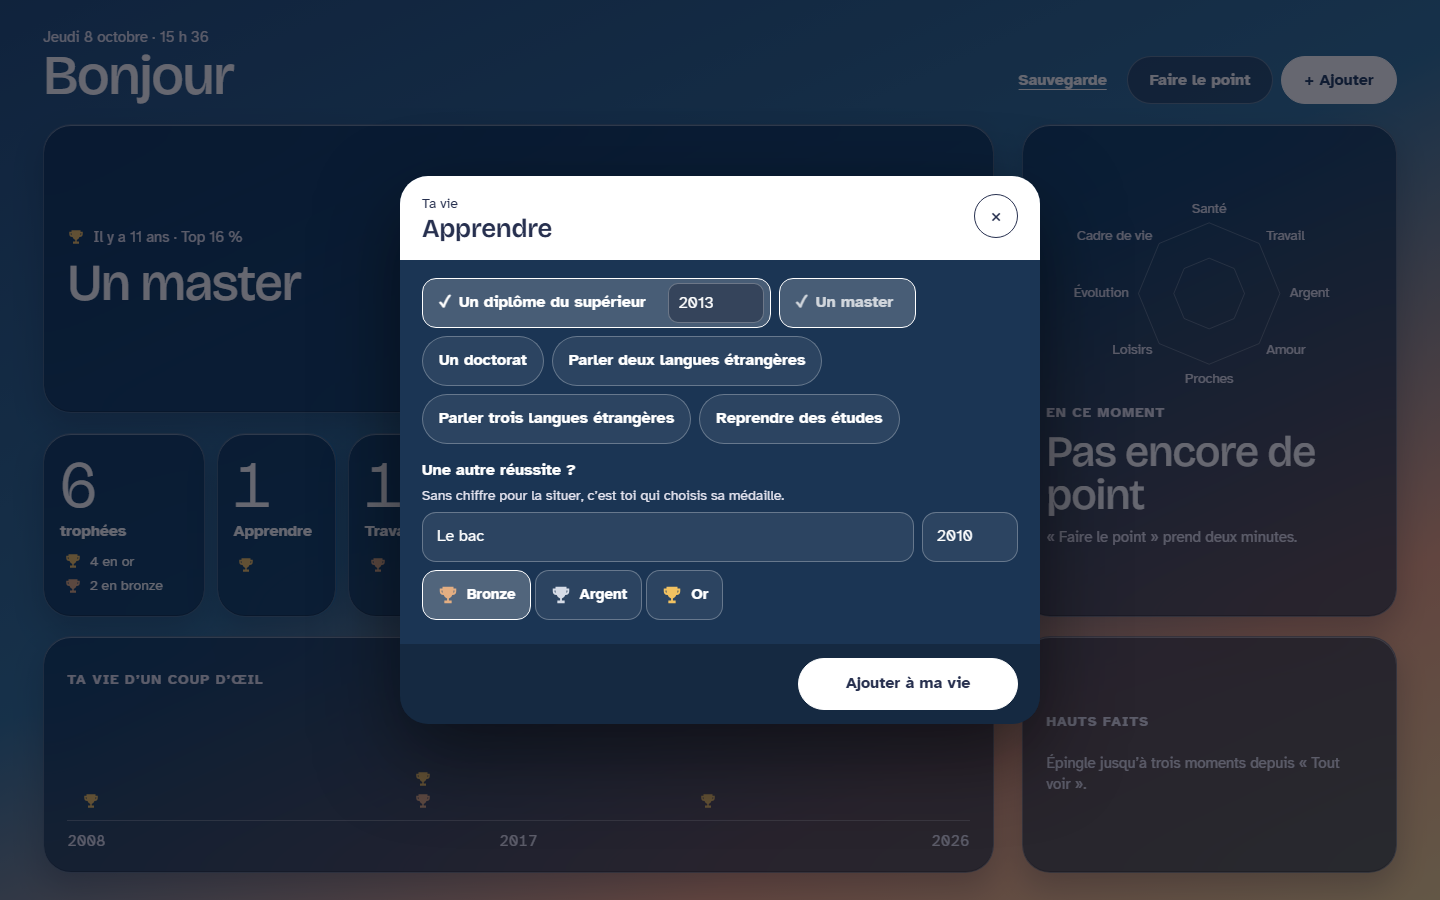
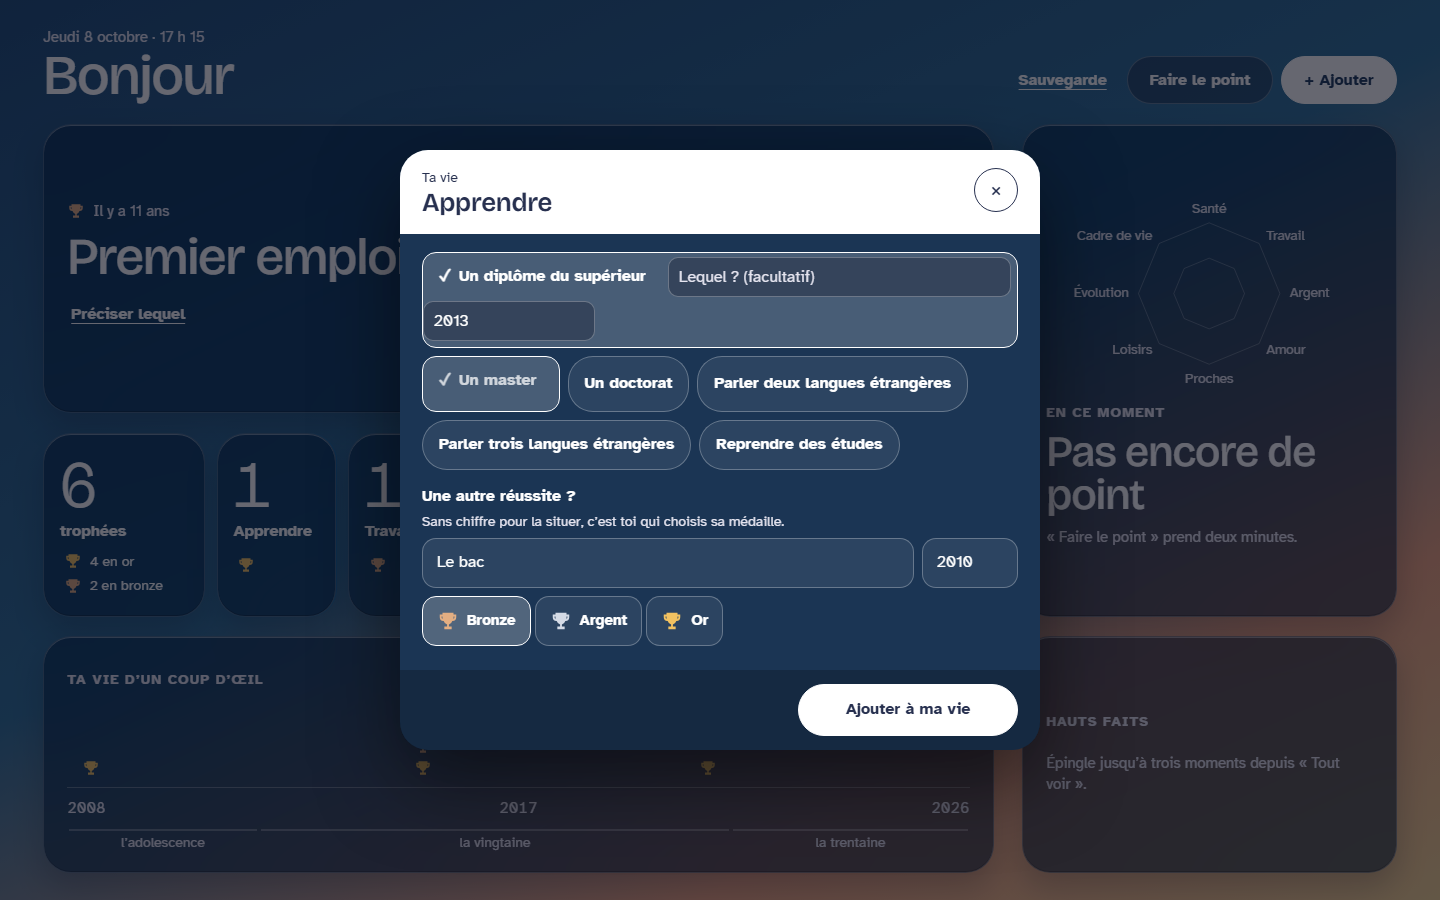
Trophées de vie : les âges sous le ruban, une réussite se précise
- Une bande sous le ruban montre les âges de la vie (adolescence,
  vingtaine, trentaine). C'est aussi là qu'on donne ou qu'on change son
  année de naissance, qui n'était demandée que dans le grand formulaire.
- Une réussite cochée peut se préciser tout de suite (« Lequel ? »).
- Le bandeau propose de préciser un trophée au titre général, et rappelle
  la réussite une fois le trophée précisé.

diff --git a/trophees-de-vie/js/app.js b/trophees-de-vie/js/app.js
@@ -4,10 +4,10 @@
 
 // Le numéro suit celui d'index.html : Pages garde un fichier dix minutes, et sans lui
 // un nouvel app.js pourrait charger une ancienne configuration.
-import { ouvrir, demanderPersistance } from './stockage.js?v=6';
-import { NIVEAUX, CATEGORIES, REUSSITES, CATALOGUE } from './config/vie.js?v=6';
-import { DOMAINES, METEOS, ELANS, MOIS, JOURS } from './config/domaines.js?v=6';
-import { lire, definition, rarete, medaille, dejaFaites, comptes, parCategorie, hautsFaits, ruban, souvenirDuJour, dernierPoint, pointDavant, phraseRoue } from './coeur.js?v=6';
+import { ouvrir, demanderPersistance } from './stockage.js?v=7';
+import { NIVEAUX, CATEGORIES, REUSSITES, CATALOGUE } from './config/vie.js?v=7';
+import { DOMAINES, METEOS, ELANS, MOIS, JOURS } from './config/domaines.js?v=7';
+import { lire, definition, rarete, medaille, dejaFaites, comptes, parCategorie, hautsFaits, ruban, decennies, souvenirDuJour, dernierPoint, pointDavant, phraseRoue } from './coeur.js?v=7';
 
 const NS = 'http://www.w3.org/2000/svg';
 const $ = (id) => document.getElementById(id);
@@ -73,9 +73,15 @@ function dessinerSouvenir() {
     : s.ans === 0 ? 'Cette année'
       : `Il y a ${s.ans} an${s.ans > 1 ? 's' : ''}${s.anniversaire ? ' aujourd’hui' : ''}`;
   const tete = el('p', 'k');
-  tete.append(coupe(s.trophee.niveau), [quand, s.trophee.top].filter(Boolean).join(' · '));
+  tete.append(coupe(s.trophee.niveau), [quand, s.trophee.modele, s.trophee.top].filter(Boolean).join(' · '));
   sv.append(tete, el('p', 't', s.trophee.titre));
   if (s.trophee.note) sv.append(el('p', 'q', `« ${s.trophee.note} »`));
+  if (s.trophee.aPreciser) {
+    const b = bouton('lien', 'Préciser lequel');
+    b.id = 'preciser';
+    b.addEventListener('click', () => ouvrirEdition(etat.moments.find((m) => m.id === s.trophee.id), 'page'));
+    sv.append(b);
+  }
 }
 
 function dessinerChiffres() {
@@ -121,6 +127,29 @@ function dessinerRuban(vie) {
   const fin = vie.annees.at(-1).annee;
   const reperes = fin - vie.debut >= 4 ? [vie.debut, Math.round((vie.debut + fin) / 2), fin] : fin > vie.debut ? [vie.debut, fin] : [fin];
   for (const a of reperes) lb.append(el('span', null, String(a)));
+}
+
+// Sous le ruban, les âges de la vie. Sans année de naissance, la place sert à la demander :
+// c'est là qu'on la trouve, et c'est aussi là qu'on la change.
+function dessinerAges(vie) {
+  $('ages')?.remove();
+  if (vie.debut == null) return;
+  const b = bouton('ages');
+  b.id = 'ages';
+  if (!etat.naissance) {
+    b.classList.add('lien');
+    b.textContent = 'Situer mes trophées à mon âge';
+  } else {
+    b.title = 'Changer mon année de naissance';
+    b.setAttribute('aria-label', `Tes âges, née en ${etat.naissance}. Changer mon année de naissance`);
+    for (const d of decennies(vie.debut, vie.annees.at(-1).annee, etat.naissance)) {
+      const s = el('span', null, d.annees >= 3 ? d.nom : '');
+      s.style.setProperty('--n', d.annees);
+      b.append(s);
+    }
+  }
+  b.addEventListener('click', ouvrirNaissance);
+  $('ans').after(b);
 }
 
 function dessinerHautsFaits() {
@@ -187,7 +216,9 @@ function dessiner() {
   heure();
   dessinerSouvenir();
   dessinerChiffres();
-  dessinerRuban(ruban(etat.vus, an()));
+  const vie = ruban(etat.vus, an());
+  dessinerRuban(vie);
+  dessinerAges(vie);
   dessinerHautsFaits();
   dessinerMoment();
 }
@@ -310,9 +341,16 @@ function puces(corps, reussites, coches, deja, quandChange) {
     if (fait) { b.disabled = true; b.title = 'Déjà dans ta vie'; }
     boite.append(b);
     if (fait || reponse) boite.classList.add('on');
+    if (reponse) {
+      const d = el('input', 'detail');
+      d.type = 'text'; d.id = `de-${r.id}`; d.maxLength = 80; d.placeholder = 'Lequel ? (facultatif)'; d.value = reponse.detail ?? '';
+      d.setAttribute('aria-label', `Précision pour : ${r.titre}, facultative`);
+      d.addEventListener('input', () => { reponse.detail = d.value; });
+      boite.append(d);
+    }
     if (reponse && !r.sansAnnee) boite.append(champAnnee(`an-${r.id}`, reponse.annee, `Année de : ${r.titre}, facultative`, (v) => { reponse.annee = v; }, 'Année (facultatif)'));
     b.addEventListener('click', () => {
-      if (coches.has(r.id)) coches.delete(r.id); else coches.set(r.id, { annee: '', niveau: r.defaut ?? 'argent' });
+      if (coches.has(r.id)) coches.delete(r.id); else coches.set(r.id, { annee: '', detail: '', niveau: r.defaut ?? 'argent' });
       const neuve = dessinerUne(r);
       boite.replaceWith(neuve);
       quandChange?.();
@@ -346,7 +384,10 @@ const groupe = (cat) => REUSSITES.filter((r) => r.categorie === cat.id);
 
 // Les moments à écrire à partir de ce qui est coché.
 function momentsCoches(coches) {
-  return REUSSITES.filter((r) => coches.has(r.id)).map((r) => moment({ titre: r.titre, ...coches.get(r.id) }, { reussite: r.id }));
+  return REUSSITES.filter((r) => coches.has(r.id)).map((r) => {
+    const c = coches.get(r.id);
+    return moment({ ...c, titre: (c.detail ?? '').trim() || r.titre }, { reussite: r.id });
+  });
 }
 
 // L'année de naissance situe une réussite à l'âge où elle a été faite.
@@ -412,6 +453,12 @@ function ouvrirAjout() {
     { label: 'Ta vie', titre: 'Coche tout ce que tu as déjà fait', dessiner: ecran(CATEGORIES.slice(0, moitie), true) },
     { label: 'Ta vie', titre: 'Et ça aussi ?', dessiner: ecran(CATEGORIES.slice(moitie), false) },
   ], 'Ajouter à ma vie', () => enregistrer(momentsCoches(coches), naissance, true));
+}
+
+// L'année de naissance seule : on y arrive par le ruban.
+function ouvrirNaissance() {
+  const naissance = { valeur: etat.naissance ?? '' };
+  ouvrirVolet('add', [{ label: 'Ta vie', titre: 'Ton âge', dessiner(corps) { champNaissance(corps, naissance); } }], 'Enregistrer', () => enregistrer([], naissance));
 }
 
 // Une catégorie seule, ouverte depuis sa tuile.
@@ -526,7 +573,8 @@ function ouvrirParcours() {
   } }], 'Fermer', async () => fermerVolet());
 }
 
-function ouvrirEdition(m) {
+// `retour` : où l'on revient après avoir enregistré, le parcours ou la page.
+function ouvrirEdition(m, retour = 'parcours') {
   const def = definition(m, CATALOGUE);
   const part = rarete(m, def, etat.naissance);
   const r = { titre: m.titre, annee: m.annee ?? '', niveau: medaille(part, m, def), note: m.note ?? '', categorie: m.categorie ?? def?.categorie ?? null };
@@ -550,7 +598,7 @@ function ouvrirEdition(m) {
   } }], 'Enregistrer', async () => {
     if (rempli(r)) await etat.base.ecrire('moments', { ...m, titre: r.titre.trim(), annee: anneeValide(r.annee), niveau: r.niveau, note: r.note.trim(), categorie: def ? m.categorie ?? null : r.categorie });
     await rafraichir();
-    ouvrirParcours();
+    if (retour === 'page') { fermerVolet(); annoncer('C’est noté', r.titre.trim() || m.titre); } else ouvrirParcours();
   });
 }
 

diff --git a/trophees-de-vie/js/coeur.js b/trophees-de-vie/js/coeur.js
@@ -22,7 +22,7 @@ import { MOIS } from './config/domaines.js';
  * @property {boolean} [rappel]       false : ne ressort jamais en souvenir du jour
  * @property {string|null} [supprimeLe]
  *
- * @typedef {Moment & {niveau:'or'|'argent'|'bronze', part:number|null, top:string|null, categorie:string|null}} Trophee
+ * @typedef {Moment & {niveau:'or'|'argent'|'bronze', part:number|null, top:string|null, categorie:string|null, modele:string|null, aPreciser:boolean}} Trophee
  *   un moment tel que la page le montre, après `lire`
  *
  * @typedef {object} Point            un « point du mois »
@@ -83,7 +83,13 @@ export function lire(moments, catalogue, naissance = null) {
     const def = definition(m, catalogue);
     const part = rarete(m, def, naissance);
     const niveau = medaille(part, m, def);
-    return { ...m, niveau, part, top: niveau === 'or' && part != null ? top(part) : null, categorie: m.categorie ?? def?.categorie ?? null };
+    // `aPreciser` : le trophée porte encore le titre général de sa réussite (« Un diplôme »,
+    // mais lequel ?). `modele` : ce titre général, à rappeler une fois le trophée précisé.
+    const aPreciser = Boolean(def) && (m.titre === def.titre || m.titre === def.ancienTitre);
+    return {
+      ...m, niveau, part, top: niveau === 'or' && part != null ? top(part) : null, categorie: m.categorie ?? def?.categorie ?? null,
+      modele: def && !aPreciser ? def.titre : null, aPreciser,
+    };
   });
 }
 
@@ -129,6 +135,24 @@ export function ruban(trophees, anneeFin) {
   const annees = [];
   for (let a = debut; a <= fin; a += 1) annees.push({ annee: a, trophees: dates.filter((t) => t.annee === a).sort(parTemps) });
   return { debut, annees, sansDate };
+}
+
+// Les âges de la vie sous le ruban : une tranche par dizaine d'années.
+const TRANCHES = { 0: 'l’enfance', 10: 'l’adolescence', 20: 'la vingtaine', 30: 'la trentaine', 40: 'la quarantaine', 50: 'la cinquantaine', 60: 'la soixantaine' };
+
+/**
+ * Les tranches d'âge traversées de `debut` à `fin`, dans l'ordre, avec le nombre
+ * d'années du ruban que chacune couvre.
+ * @returns {{tranche:number, nom:string, annees:number}[]}
+ */
+export function decennies(debut, fin, naissance) {
+  const tranches = [];
+  for (let a = debut; a <= fin; a += 1) {
+    const tranche = Math.max(0, Math.floor((a - naissance) / 10) * 10);
+    if (tranches.at(-1)?.tranche === tranche) tranches.at(-1).annees += 1;
+    else tranches.push({ tranche, nom: TRANCHES[tranche] ?? `les ${tranche} ans`, annees: 1 });
+  }
+  return tranches;
 }
 
 // ---------- Souvenir du jour ----------

diff --git a/trophees-de-vie/tests/coeur.test.js b/trophees-de-vie/tests/coeur.test.js
@@ -5,7 +5,7 @@ import { NIVEAUX, CATEGORIES, REUSSITES, ALIAS, CATALOGUE } from '../js/config/v
 import { DOMAINES, METEOS, ELANS } from '../js/config/domaines.js';
 import { MOMENTS, POINTS, NAISSANCE } from './exemple.js';
 import {
-  SEUILS, definition, rarete, medaille, top, lire, dejaFaites, comptes, parCategorie, hautsFaits, ruban, souvenirDuJour,
+  SEUILS, definition, rarete, medaille, top, lire, dejaFaites, comptes, parCategorie, hautsFaits, ruban, decennies, souvenirDuJour,
   decalerMois, dernierPoint, pointDavant, ecartsRoue, phraseRoue,
 } from '../js/coeur.js';
 
@@ -190,6 +190,28 @@ test('une vie sans rien de noté donne une page vide, sans erreur', () => {
   assert.deepEqual(comptes([]), { total: 0, or: 0, argent: 0, bronze: 0 });
   assert.equal(souvenirDuJour([], AUJOURDHUI), null);
   assert.deepEqual(lire([], CATALOGUE), []);
+});
+
+test('les âges sous le ruban : une tranche par dizaine, comptée en années', () => {
+  assert.deepEqual(decennies(2009, 2026, NAISSANCE), [
+    { tranche: 10, nom: 'l’adolescence', annees: 3 },
+    { tranche: 20, nom: 'la vingtaine', annees: 10 },
+    { tranche: 30, nom: 'la trentaine', annees: 5 },
+  ]);
+  assert.equal(decennies(2009, 2026, NAISSANCE).reduce((n, d) => n + d.annees, 0), 18, 'chaque année du ruban est couverte une fois');
+  assert.deepEqual(decennies(1990, 1992, 1992).map((d) => d.nom), ['l’enfance'], 'avant la naissance, on reste dans l’enfance');
+  assert.equal(decennies(2062, 2062, 1992)[0].nom, 'les 70 ans');
+});
+
+test('un trophée au titre général est « à préciser », un trophée précisé rappelle sa réussite', () => {
+  assert.equal(vu('permis').aPreciser, true);
+  assert.equal(vu('permis').modele, null);
+  assert.equal(vu('licence').aPreciser, false);
+  assert.equal(vu('licence').modele, 'Un diplôme du supérieur');
+  assert.equal(vu('bac').aPreciser, false, 'écrit à la main : rien à préciser');
+  assert.equal(vu('bac').modele, null);
+  const v1 = lire([{ id: 'p', genre: 'passage', passage: 'diplome', titre: 'Un diplôme', niveau: 'cap', annee: 2011 }], CATALOGUE)[0];
+  assert.equal(v1.aPreciser, true, 'le titre de la version 1 est reconnu comme général');
 });
 
 // ---------- Souvenir du jour ----------

diff --git a/trophees-de-vie/css/app.css b/trophees-de-vie/css/app.css
@@ -235,3 +235,14 @@ button.cell:hover{border-color:rgba(255,255,255,.6)}
 .bilan .n{font-weight:700}
 .bilan .leg{justify-content:center;font-size:16px;margin-top:8px;padding:0}
 .bilan + .aide{text-align:center;font-size:16px}
+
+/* v7 : les âges sous le ruban, et de quoi préciser une réussite */
+.ages{display:flex;width:100%;margin:0;padding:0;border:0;background:none;font:inherit;color:var(--muted);cursor:pointer}
+.ages span{flex:var(--n) 1 0;min-width:0;margin-inline:2px;padding-top:4px;border-top:2px solid var(--line);font-size:14px;line-height:1.2;text-align:center;white-space:nowrap;overflow:hidden}
+.ages:hover span{border-top-color:#FFFFFF}
+.ages.lien{display:block;width:auto;align-self:flex-start;color:var(--ink);text-align:left}
+.sv .lien{align-self:flex-start}
+.puce .detail{flex:1 1 190px;width:auto;min-width:150px}
+.puce .an-in{flex:0 0 172px;width:172px;min-height:40px}
+.puce .detail{min-height:40px;border-radius:10px;border:1.5px solid var(--line);background:rgba(10,12,30,.3);padding:0 10px}
+.puce.on{padding:0 6px 6px 0;row-gap:0}

diff --git a/trophees-de-vie/js/config/vie.js b/trophees-de-vie/js/config/vie.js
@@ -35,7 +35,9 @@ export const CATEGORIES = [
 // ⚠ Un identifiant ne se renomme jamais : les moments gardés le portent.
 export const REUSSITES = [
   // OCDE, Regards sur l'éducation 2025 : 41,2 % des 25-64 ans ont un diplôme du supérieur.
-  { id: 'diplome', titre: 'Un diplôme du supérieur', categorie: 'apprendre', rarete: 0.41 },
+  // `ancienTitre` : le titre que la version 1 donnait à cette réussite. Il sert à
+  // reconnaître qu'un trophée gardé n'a pas encore été précisé.
+  { id: 'diplome', titre: 'Un diplôme du supérieur', ancienTitre: 'Un diplôme', categorie: 'apprendre', rarete: 0.41 },
   // OCDE, Regards sur l'éducation 2025 (notes par pays) : 16 % des 25-34 ans ont un master.
   { id: 'master', titre: 'Un master', categorie: 'apprendre', rarete: 0.16 },
   // OCDE, Education GPS : 1,2 % des 25-64 ans ont un doctorat (2024).

diff --git a/trophees-de-vie/index.html b/trophees-de-vie/index.html
@@ -8,7 +8,7 @@
 <meta name="theme-color" content="#1E4C78">
 <link rel="icon" href="icone.svg" type="image/svg+xml">
 <link rel="preload" href="polices/bricolage.woff2" as="font" type="font/woff2" crossorigin>
-<link rel="stylesheet" href="css/app.css?v=6">
+<link rel="stylesheet" href="css/app.css?v=7">
 </head>
 <body>
 <div class="page">
@@ -54,6 +54,6 @@
 </div>
 <div class="toast" id="toast" role="status" aria-live="polite"></div>
 
-<script type="module" src="js/app.js?v=6"></script>
+<script type="module" src="js/app.js?v=7"></script>
 </body>
 </html>
